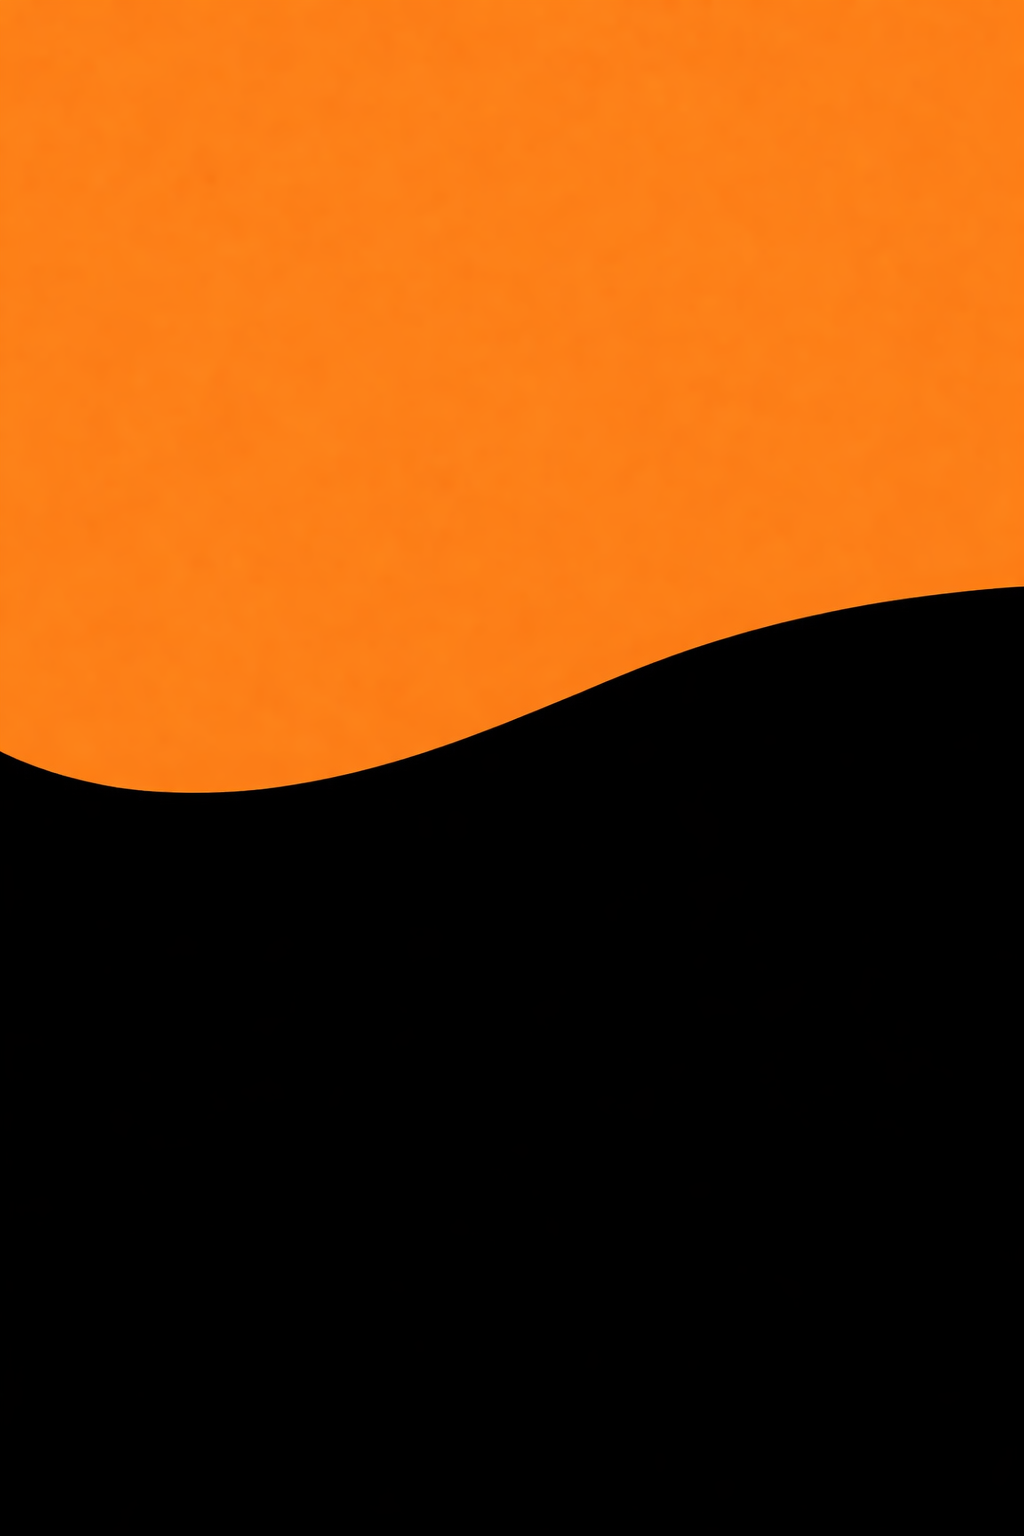
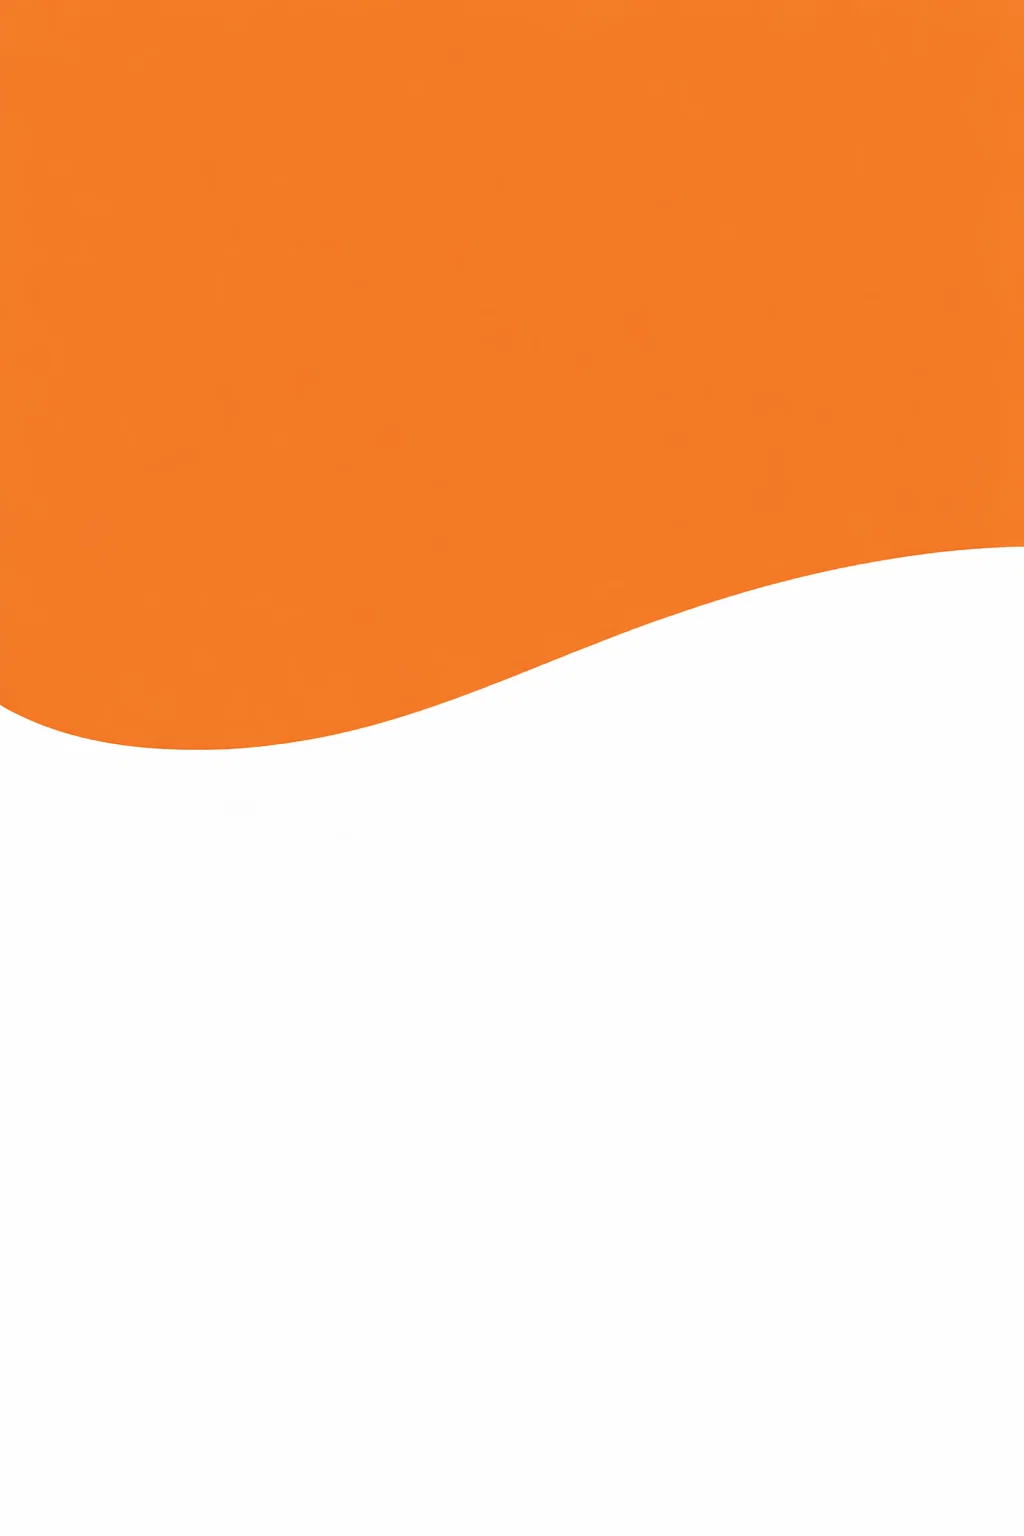
giriş ekranı yapıldı

diff --git a/screens/AuthScreen.tsx b/screens/AuthScreen.tsx
@@ -1,0 +1,282 @@
+import React, { useEffect, useMemo, useRef, useState } from 'react';
+import {
+  Animated,
+  Image,
+  ImageBackground,
+  KeyboardAvoidingView,
+  Platform,
+  Pressable,
+  StyleSheet,
+  Text,
+  TextInput,
+  View,
+} from 'react-native';
+import { SafeAreaView } from 'react-native-safe-area-context';
+import { useAppColors, useIsDark } from '../constants/colors';
+import { useLanguage } from '../providers/LanguageProvider';
+
+interface AuthScreenProps {
+  onDone: () => void;
+}
+
+type AuthMode = 'login' | 'signup';
+
+const backgroundImage = require('../assets/background.png');
+const lightImage = require('../assets/light.png');
+
+export default function AuthScreen({ onDone }: AuthScreenProps) {
+  const colors = useAppColors();
+  const isDark = useIsDark();
+  const { language } = useLanguage();
+  const [mode, setMode] = useState<AuthMode>('login');
+  const [username, setUsername] = useState('');
+  const [email, setEmail] = useState('');
+  const [password, setPassword] = useState('');
+
+  const leftDrop = useRef(new Animated.Value(-280)).current;
+  const rightDrop = useRef(new Animated.Value(-320)).current;
+  const leftOpacity = useRef(new Animated.Value(0)).current;
+  const rightOpacity = useRef(new Animated.Value(0)).current;
+
+  useEffect(() => {
+    Animated.parallel([
+      Animated.timing(leftDrop, {
+        toValue: 0,
+        duration: 900,
+        useNativeDriver: true,
+      }),
+      Animated.timing(rightDrop, {
+        toValue: 12,
+        duration: 1050,
+        useNativeDriver: true,
+      }),
+      Animated.timing(leftOpacity, {
+        toValue: 1,
+        duration: 650,
+        useNativeDriver: true,
+      }),
+      Animated.timing(rightOpacity, {
+        toValue: 1,
+        duration: 650,
+        useNativeDriver: true,
+      }),
+    ]).start();
+  }, [leftDrop, leftOpacity, rightDrop, rightOpacity]);
+
+  const isLogin = mode === 'login';
+  const isTurkish = language === 'tr';
+  const submitLabel = isLogin
+    ? (isTurkish ? 'Giris Yap' : 'Login')
+    : (isTurkish ? 'Kayit Ol' : 'Create Account');
+  const subtitle = isLogin
+    ? (isTurkish ? 'Hesabin yok mu?' : "Don't have an account?")
+    : (isTurkish ? 'Zaten hesabin var mi?' : 'Already have an account?');
+  const actionLabel = isLogin
+    ? (isTurkish ? 'Kayit Ol' : 'SignUp')
+    : (isTurkish ? 'Giris Yap' : 'Login');
+  const handleModeToggle = () => {
+    setMode((currentMode) => currentMode === 'login' ? 'signup' : 'login');
+  };
+
+  const styles = useMemo(() => createStyles(colors, isDark), [colors, isDark]);
+
+  return (
+    <ImageBackground source={backgroundImage} style={styles.background} resizeMode="cover">
+      <SafeAreaView style={styles.safe}>
+        <KeyboardAvoidingView
+          style={styles.keyboard}
+          behavior={Platform.OS === 'ios' ? 'padding' : undefined}
+        >
+          <View style={styles.hero}>
+            <Animated.Image
+              source={lightImage}
+              style={[
+                styles.light,
+                styles.lightRight,
+                {
+                  opacity: rightOpacity,
+                  transform: [{ translateY: rightDrop }, { scale: 0.72 }],
+                },
+              ]}
+              resizeMode="contain"
+            />
+
+            <Animated.Image
+              source={lightImage}
+              style={[
+                styles.light,
+                styles.lightLeft,
+                {
+                  opacity: leftOpacity,
+                  transform: [{ translateY: leftDrop }],
+                },
+              ]}
+              resizeMode="contain"
+            />
+
+          </View>
+
+          <View style={styles.sheet}>
+            <View style={styles.waveCap} />
+
+            <View key={mode} style={styles.form}>
+              {!isLogin ? (
+                <TextInput
+                  value={username}
+                  onChangeText={setUsername}
+                  placeholder={isTurkish ? 'Kullanici Adi' : 'Username'}
+                  placeholderTextColor={isDark ? colors.dayMuted : '#9DA6B4'}
+                  style={styles.input}
+                />
+              ) : null}
+
+              <TextInput
+                value={email}
+                onChangeText={setEmail}
+                placeholder={isTurkish ? 'E-posta' : 'Email'}
+                placeholderTextColor={isDark ? colors.dayMuted : '#9DA6B4'}
+                style={styles.input}
+                keyboardType="email-address"
+                autoCapitalize="none"
+              />
+
+              <TextInput
+                value={password}
+                onChangeText={setPassword}
+                placeholder={isTurkish ? 'Sifre' : 'Password'}
+                placeholderTextColor={isDark ? colors.dayMuted : '#9DA6B4'}
+                style={styles.input}
+                secureTextEntry
+              />
+
+              <Pressable style={styles.primaryButton} onPress={onDone}>
+                <Text style={styles.primaryButtonText}>{submitLabel}</Text>
+              </Pressable>
+
+              <Pressable
+                style={({ pressed }) => [
+                  styles.switchRow,
+                  pressed && styles.switchRowPressed,
+                ]}
+                onPress={handleModeToggle}
+                hitSlop={12}
+              >
+                <Text style={styles.switchText}>{subtitle} </Text>
+                <Text style={styles.switchAction}>{actionLabel}</Text>
+              </Pressable>
+            </View>
+          </View>
+        </KeyboardAvoidingView>
+      </SafeAreaView>
+    </ImageBackground>
+  );
+}
+
+function createStyles(colors: ReturnType<typeof useAppColors>, isDark: boolean) {
+  return StyleSheet.create({
+    background: {
+      flex: 1,
+      backgroundColor: colors.orange,
+    },
+    safe: {
+      flex: 1,
+    },
+    keyboard: {
+      flex: 1,
+    },
+    hero: {
+      flex: 0.44,
+      alignItems: 'center',
+      justifyContent: 'center',
+      position: 'relative',
+      overflow: 'hidden',
+    },
+    light: {
+      position: 'absolute',
+      width: 84,
+      height: 220,
+    },
+    lightLeft: {
+      top: -6,
+      left: 52,
+    },
+    lightRight: {
+      top: -52,
+      right: 82,
+    },
+    title: {
+      display: 'none',
+    },
+    sheet: {
+      flex: 0.56,
+      backgroundColor: colors.surface,
+      borderTopLeftRadius: 44,
+      borderTopRightRadius: 44,
+      marginTop: 40,
+      overflow: 'hidden',
+    },
+    waveCap: {
+      position: 'absolute',
+      top: -48,
+      left: -14,
+      right: -14,
+      height: 88,
+      backgroundColor: colors.surface,
+      borderBottomLeftRadius: 110,
+      borderBottomRightRadius: 170,
+      transform: [{ rotate: '-3deg' }],
+    },
+    form: {
+      flex: 1,
+      paddingHorizontal: 24,
+      paddingTop: 68,
+      paddingBottom: 28,
+      gap: 16,
+    },
+    input: {
+      height: 54,
+      borderRadius: 14,
+      backgroundColor: isDark ? colors.surfaceAlt : '#F2F3F6',
+      paddingHorizontal: 16,
+      color: colors.text,
+      fontSize: 14,
+      borderWidth: 1,
+      borderColor: isDark ? colors.border : '#EBEEF2',
+    },
+    primaryButton: {
+      marginTop: 8,
+      height: 54,
+      borderRadius: 14,
+      backgroundColor: colors.orange,
+      alignItems: 'center',
+      justifyContent: 'center',
+    },
+    primaryButtonText: {
+      color: colors.white,
+      fontSize: 15,
+      fontWeight: '700',
+    },
+    switchRow: {
+      marginTop: 8,
+      flexDirection: 'row',
+      justifyContent: 'center',
+      alignItems: 'center',
+      flexWrap: 'wrap',
+      alignSelf: 'center',
+      paddingHorizontal: 10,
+      paddingVertical: 8,
+    },
+    switchRowPressed: {
+      opacity: 0.82,
+    },
+    switchText: {
+      color: colors.muted,
+      fontSize: 13,
+    },
+    switchAction: {
+      color: colors.orangeDark,
+      fontSize: 13,
+      fontWeight: '700',
+    },
+  });
+}

diff --git a/App.tsx b/App.tsx
@@ -3,7 +3,7 @@ import { useState, useCallback } from 'react';
 import { StatusBar } from 'expo-status-bar';
 import { SafeAreaProvider } from 'react-native-safe-area-context';
 import AppNavigator from './navigation/AppNavigator';
-import OnboardingScreen from './screens/OnboardingScreen';
+import AuthScreen from './screens/AuthScreen';
 import { ToastProvider } from './components/ToastProvider';
 import { useAppColors, useIsDark } from './constants/colors';
 import { ThemeProvider } from './providers/ThemeProvider';
@@ -38,7 +38,7 @@ function AppContent() {
       {onboardingDone ? (
         <AppNavigator />
       ) : (
-        <OnboardingScreen onDone={handleOnboardingDone} />
+        <AuthScreen onDone={handleOnboardingDone} />
       )}
     </>
   );
